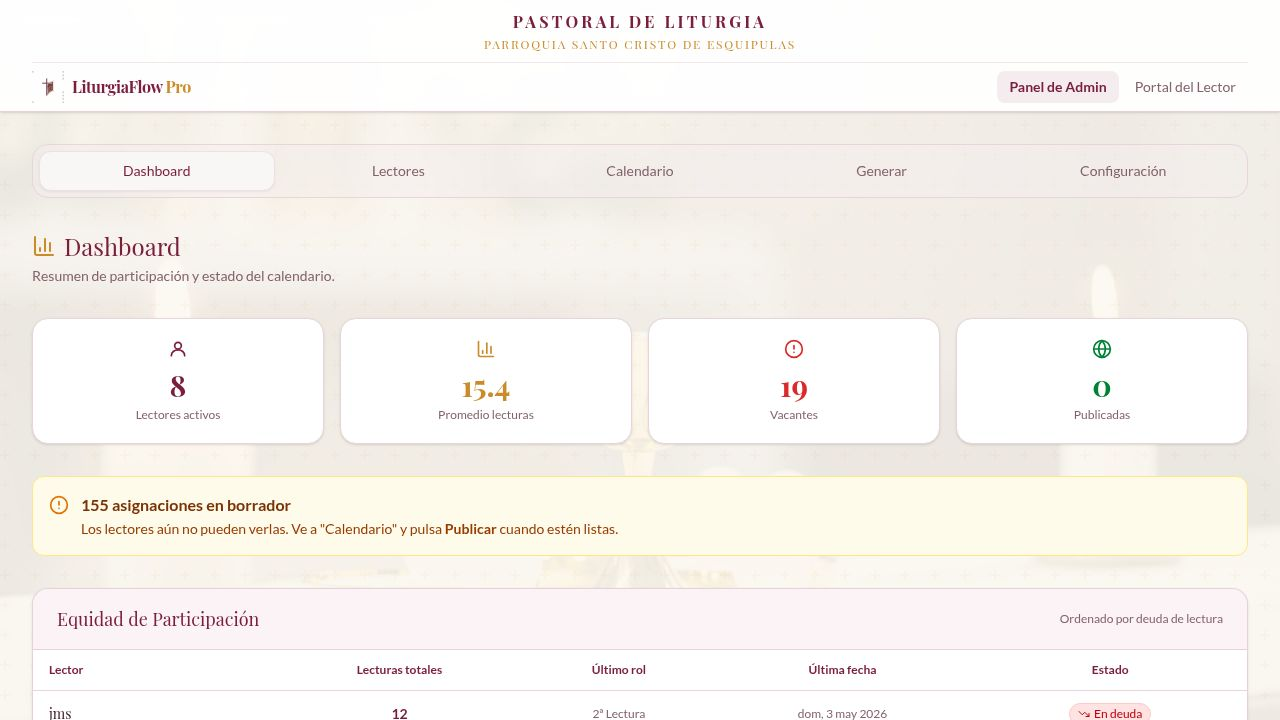
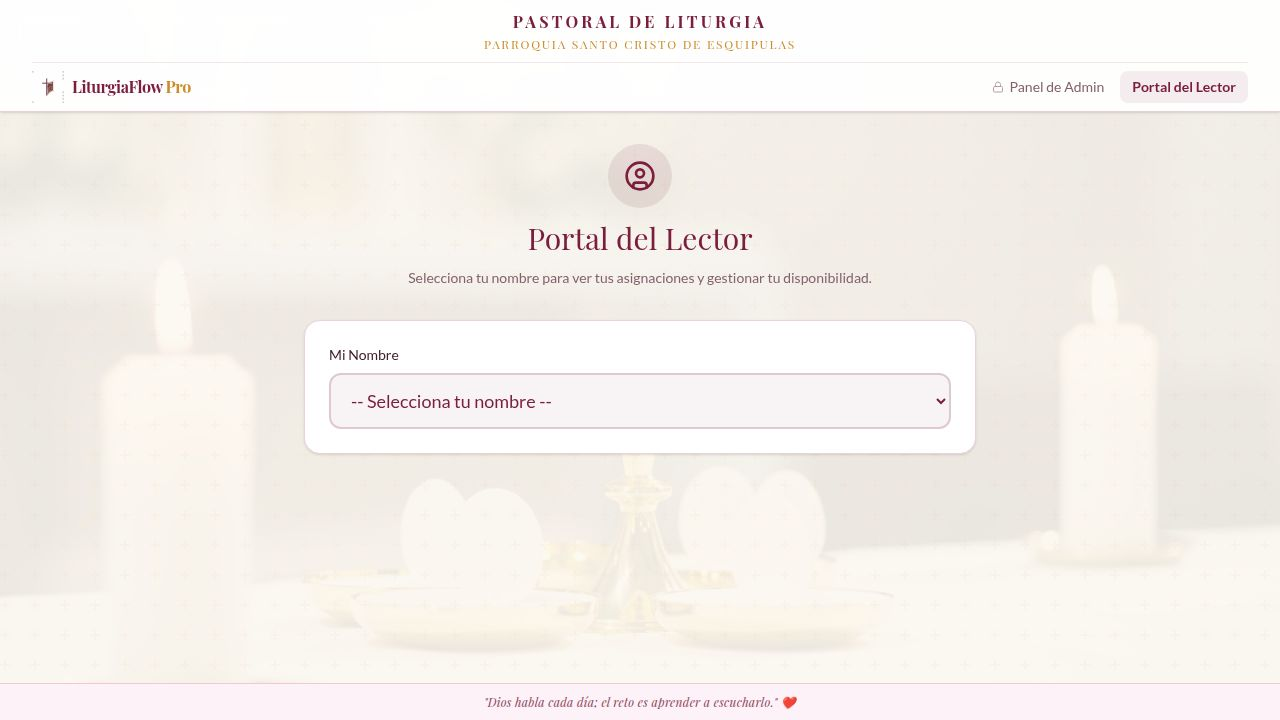
Fix error preventing navigation to admin panel
Update component to use `useLocation` for programmatic navigation, resolving a "router.navigate is not a function" error.

Replit-Commit-Author: Agent
Replit-Commit-Session-Id: 06057f23-f5f4-4a84-bdf3-08f48057fc8e
Replit-Commit-Checkpoint-Type: full_checkpoint
Replit-Commit-Event-Id: ebeb85da-3855-456d-b4b3-f6d17e7c604d
Replit-Commit-Screenshot-Url: https://storage.googleapis.com/screenshot-production-us-central1/fad7b103-d350-4373-aee4-37d36dbe5a7a/06057f23-f5f4-4a84-bdf3-08f48057fc8e/tpQTRf7
Replit-Helium-Checkpoint-Created: true

diff --git a/artifacts/liturgia-flow/src/components/layout.tsx b/artifacts/liturgia-flow/src/components/layout.tsx
@@ -1,5 +1,5 @@
 import React, { useState, useRef, useEffect } from "react";
-import { Link, useLocation, useRouter } from "wouter";
+import { Link, useLocation } from "wouter";
 import { Calendar, Users, Lock, Eye, EyeOff, AlertCircle } from "lucide-react";
 import { cn } from "@/lib/utils";
 import { useAuth } from "@/context/auth";
@@ -162,8 +162,7 @@ function AdminPasswordModal({
 }
 
 export function Layout({ children }: { children: React.ReactNode }) {
-  const [location] = useLocation();
-  const router = useRouter();
+  const [location, navigate] = useLocation();
   const { isAdmin } = useAuth();
   const [showModal, setShowModal] = useState(false);
 
@@ -183,7 +182,7 @@ export function Layout({ children }: { children: React.ReactNode }) {
 
   function handleModalSuccess() {
     setShowModal(false);
-    router.navigate("/");
+    navigate("/");
   }
 
   return (